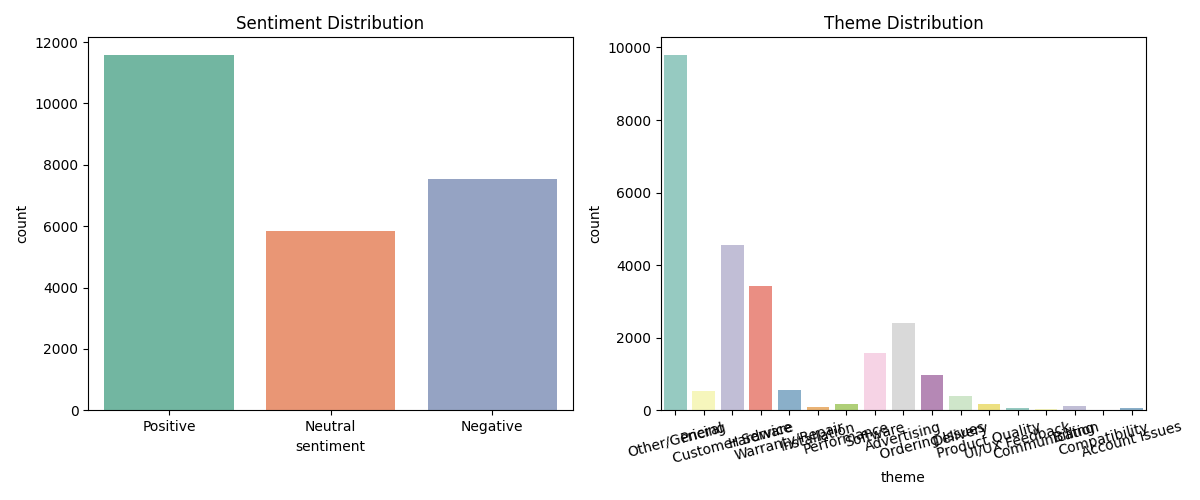
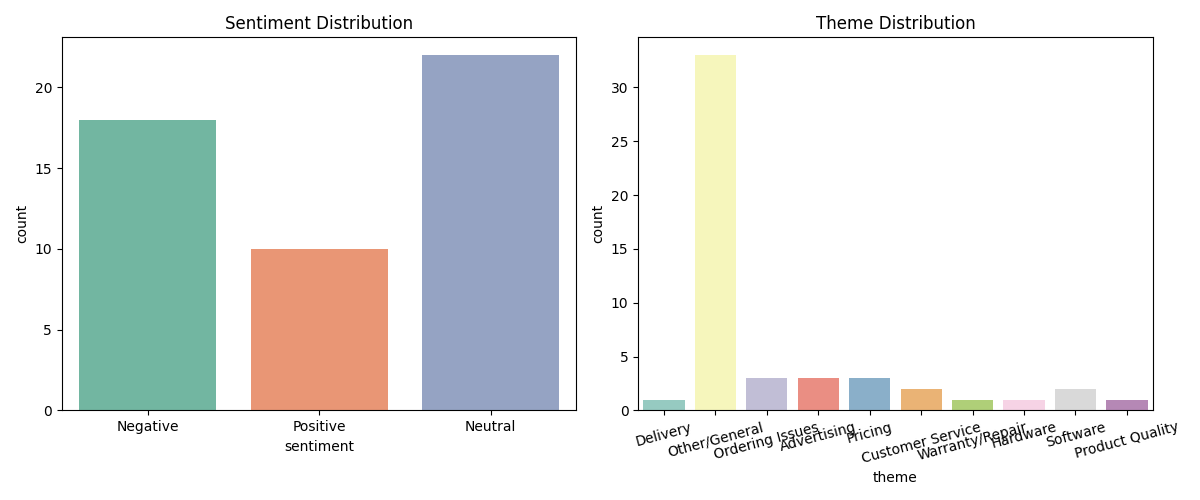
working reddit live stream data

diff --git a/streamlit_app.py b/streamlit_app.py
@@ -4,6 +4,13 @@ import plotly.express as px
 from scripts.map_insights import generate_action_items
 from scripts.generate_ai_suggestions import generate_bart_suggestions
 from jiraAutomation.create_jira_ticket import create_jira_ticket
+from scripts.reddit_stream import stream_reddit_comments
+from scripts.preprocess_data import preprocess_dataset
+from scripts.sentiment_analysis import run_sentiment_analysis
+from scripts.theme_classification import classify_themes
+import os
+
+st.set_page_config(layout="wide", page_title="AI-Powered Customer Insight Dashboard")
 
 # UI Styling
 st.markdown("""
@@ -19,25 +26,48 @@ st.markdown("""
     </style>
 """, unsafe_allow_html=True)
 
-st.set_page_config(layout="wide", page_title="AI-Powered Customer Insight Dashboard")
-
-# Centered Title
+# Title
 st.markdown("<div style='text-align: center; font-size: 32px; font-weight: bold;'>📊 Dell Tweets Insight Dashboard</div>", unsafe_allow_html=True)
 
-# Load processed data
+# File paths
 DATA_PATH = "data/processed/dell_themes.csv"
+LIVE_PATH = "data/processed/live_themes.csv"
+
+# Sidebar source selector
+st.sidebar.title("📂 Data Source")
+data_source = st.sidebar.radio("Select Data Source:", ["Kaggle", "Live"])
 
 @st.cache_data
-def load_data():
+def load_kaggle_data():
     return pd.read_csv(DATA_PATH)
 
-df = load_data()
+@st.cache_data
+def load_live_data():
+    st.info("🔍 Fetching Live Reddit data...")
+    live_df = stream_reddit_comments(subreddit_name="technology", limit=100)
+    if not live_df.empty:
+        preprocess_dataset("data/raw/reddit_stream.csv", "data/processed/live_cleaned.csv")
+        run_sentiment_analysis("data/processed/live_cleaned.csv", "data/processed/live_sentiment.csv")
+        df = pd.read_csv("data/processed/live_sentiment.csv")
+        df = classify_themes(df)
+        df.to_csv(LIVE_PATH, index=False)
+        st.success(f"✅ Live data processed ({len(df)} records)")
+        return df
+    else:
+        st.error("⚠ No live data fetched.")
+        return pd.DataFrame()
 
-# Top right checkbox
+# Load data based on source
+df = load_kaggle_data() if data_source == "Kaggle" else load_live_data()
+
+if df.empty:
+    st.warning("⚠ No data available. Please check the source.")
+    st.stop()
+
+# Checkbox to show raw data
 col1, col2 = st.columns([10, 1])
 with col2:
     show_data = st.checkbox("Show raw data")
-
 if show_data:
     st.dataframe(df.head())
 
@@ -91,7 +121,6 @@ with col_f1:
 with col_f2:
     theme_filter = st.selectbox("Filter tweets by theme", options=["All"] + sorted(df['theme'].unique()))
 
-# Apply filters
 filtered = df.copy()
 if sent_filter != "All":
     filtered = filtered[filtered['sentiment'] == sent_filter]
@@ -105,90 +134,53 @@ with st.expander("📂 View Filtered Tweets"):
 # Suggested Action Items
 st.subheader("🛠 Suggested Action Items Based on Feedback")
 actions_by_sentiment = generate_action_items(df)
-
 for sentiment, actions in actions_by_sentiment.items():
     st.markdown(f"### {sentiment} Feedback")
-
     if actions:
-        cleaned_actions = [
-            (action.replace("Promote as testimonial for ", "")
-                   .replace("Note neutral feedback for ", "")
-                   .replace("Route negative feedback to ", "")
-                   .replace("Escalate to support team for ", ""), count)
-            for action, count in actions
-        ]
+        cleaned_actions = [(a.replace("Promote as testimonial for ", "")
+                             .replace("Note neutral feedback for ", "")
+                             .replace("Route negative feedback to ", "")
+                             .replace("Escalate to support team for ", ""), c)
+                            for a, c in actions]
         action_df = pd.DataFrame(cleaned_actions, columns=["Action Area", "Mentions"])
         col1, col2 = st.columns([1, 1])
         with col1:
             st.dataframe(action_df.sort_values(by="Mentions", ascending=False))
         with col2:
-            fig = px.pie(
-                action_df,
-                names="Action Area",
-                values="Mentions",
-                hole=0.4,
-                title=f"{sentiment} Feedback Distribution",
-                color_discrete_sequence=px.colors.qualitative.Pastel
-            )
+            fig = px.pie(action_df, names="Action Area", values="Mentions", hole=0.4,
+                         title=f"{sentiment} Feedback Distribution",
+                         color_discrete_sequence=px.colors.qualitative.Pastel)
             st.plotly_chart(fig, use_container_width=True)
 
-# 🤖 AI-Powered Suggestions
+# AI Suggestions
 st.subheader("🤖 AI-Generated Action Suggestions (Negative)")
-
 with st.spinner("Generating suggestions using BART model..."):
-    from transformers import pipeline
-    from scripts.generate_ai_suggestions import generate_bart_suggestions
-
     ai_suggestions = generate_bart_suggestions(df)
-
 if ai_suggestions:
     ai_df = pd.DataFrame(ai_suggestions, columns=["Theme", "Mentions", "Suggested Action"])
     st.dataframe(ai_df, use_container_width=True)
-else:
-    st.warning("No suggestions generated.")
 
 # Jira Ticket Creation
-# 🚨 Suggested Jira Tickets Based on AI Suggestions
-st.subheader("🚨 Suggested Jira Tickets Based on AI Suggestions (Top 3 Negative Themes)")
 
-from scripts.generate_ai_suggestions import generate_bart_suggestions
+st.subheader("🚨 Suggested Jira Tickets (Top Negative Themes)")
 
-ai_suggestions = generate_bart_suggestions(df)
+if st.button("Create Test Jira Ticket"):
+    issue_key = create_jira_ticket("Python Test from Streamlit", "Testing from Streamlit app")
+    if issue_key:
+        st.success(f"✅ Created Jira ticket: {issue_key}")
+    else:
+        st.error("❌ Failed to create Jira ticket")
 
-if ai_suggestions:
-    for i, (theme, count, suggestion) in enumerate(ai_suggestions):
-        st.markdown(f"**{i+1}. {theme}** — {count} mentions")
-        if st.button(f"Create Jira Ticket for {theme}", key=f"ai_ticket_{i}"):
-            summary = f"Negative Feedback - {theme[:40]}"
-            description = suggestion
-            issue_key = create_jira_ticket(summary, description)
-            if issue_key:
-                st.success(f"✅ Jira ticket created: {issue_key}")
-            else:
-                st.error("❌ Failed to create Jira ticket.")
-else:
-    st.info("No AI-generated suggestions available to create Jira tickets.")
-
-# 📥 Export Action Items
+# Export Actions
 st.subheader("📥 Export Action Items")
-
 col_exp1, col_exp2 = st.columns([1, 1])
-
 with col_exp1:
-    export_sentiment = st.selectbox(
-        "Choose sentiment to export",
-        ["Negative", "Positive", "Neutral"],
-        key="export_sentiment"
-    )
-
+    export_sentiment = st.selectbox("Choose sentiment to export", ["Negative", "Positive", "Neutral"])
 with col_exp2:
     export_data = actions_by_sentiment.get(export_sentiment, [])
     if export_data:
         df_export = pd.DataFrame(export_data, columns=["Action", "Mentions"])
-        st.download_button(
-            label="📥 Download CSV",
-            data=df_export.to_csv(index=False),
-            file_name=f"{export_sentiment.lower()}_actions.csv",
-            mime='text/csv',
-            key="download_btn"
-        )
+        st.download_button(label="📥 Download CSV",
+                           data=df_export.to_csv(index=False),
+                           file_name=f"{export_sentiment.lower()}_actions.csv",
+                           mime='text/csv')

diff --git a/main.py b/main.py
@@ -1,3 +1,9 @@
+# main.py
+
+import os
+import pandas as pd
+from dotenv import load_dotenv
+
 from scripts.load_data import load_data
 from scripts.preprocess_data import preprocess_dataset
 from scripts.sentiment_analysis import run_sentiment_analysis
@@ -5,34 +11,50 @@ from scripts.theme_classification import classify_themes
 from scripts.map_insights import map_insights, generate_action_items
 from scripts.visualize_summary import plot_sentiment_theme_distribution
 from scripts.generate_ai_suggestions import generate_bart_suggestions
-import pandas as pd
+from scripts.reddit_stream import stream_reddit_comments
 
+# Load environment variables
+load_dotenv()
+
+LIVE_MODE = os.getenv("LIVE_MODE", "False").lower() == "true"
 
 def main():
+    if LIVE_MODE:
+        print("🌐 LIVE MODE ENABLED: Streaming Reddit data...")
+        stream_reddit_comments(subreddit_name="technology", limit=50)
+        raw_path = "data/raw/reddit_stream.csv"
+    else:
+        print("📂 OFFLINE MODE: Using Kaggle dataset...")
+        raw_path = "data/raw/dell_cleaned.csv"
+
+    # Step 1: Load Data
     print("🔹 Step 1: Loading raw data...")
-    raw_path = "data/raw/dell_tweets.csv"
     df_raw = load_data(raw_path)
 
-    print("🔹 Step 2: Preprocessing tweets...")
-    cleaned_path = "data/processed/dell_cleaned.csv"
+    # Step 2: Preprocess
+    print("🔹 Step 2: Preprocessing data...")
+    cleaned_path = "data/processed/cleaned_data.csv"
     preprocess_dataset(raw_path, cleaned_path)
 
+    # Step 3: Sentiment Analysis
     print("🔹 Step 3: Running sentiment analysis...")
-    sentiment_path = "data/processed/dell_sentiment.csv"
+    sentiment_path = "data/processed/sentiment_data.csv"
     run_sentiment_analysis(cleaned_path, sentiment_path)
 
+    # Step 4: Theme Classification
     print("🔹 Step 4: Classifying themes...")
     df = pd.read_csv(sentiment_path)
     df = classify_themes(df)
-    theme_path = "data/processed/dell_themes.csv"
+    theme_path = "data/processed/final_data.csv"
     df.to_csv(theme_path, index=False)
 
+    # Step 5: Insights Summary
     print("🔹 Step 5: Mapping summary insights...")
     insights = map_insights(df)
-    print("\n📊 Insight Summary:")
     for line in insights:
         print("•", line)
 
+    # Step 6: Action Items
     print("\n🔹 Step 6: Generating action items...")
     actions = generate_action_items(df)
     for sentiment, items in actions.items():
@@ -40,17 +62,17 @@ def main():
         for action, count in items:
             print(f"• {action} — {count} mentions")
 
+    # Step 7: Visualizations
     print("\n🔹 Step 7: Generating visualizations...")
     plot_sentiment_theme_distribution(theme_path)
 
-    # Optional: AI summarization preview
-    print("\n🔹 Step 8: AI-generated improvement ideas (from comments):")
+    # Step 8: AI Suggestions
+    print("\n🔹 Step 8: AI-generated improvement ideas...")
     ai_suggestions = generate_bart_suggestions(df)
     for theme, count, idea in ai_suggestions:
         print(f"\n📌 {theme} ({count} mentions):\n👉 {idea}")
 
     print("\n✅ Pipeline completed successfully.")
-
 
 if __name__ == "__main__":
     main()

diff --git a/scripts/reddit_stream.py b/scripts/reddit_stream.py
@@ -1,0 +1,45 @@
+import praw
+import os
+import pandas as pd
+from datetime import datetime
+from dotenv import load_dotenv
+
+load_dotenv()
+
+# Reddit API setup
+reddit = praw.Reddit(
+    client_id=os.getenv("REDDIT_CLIENT_ID"),
+    client_secret=os.getenv("REDDIT_CLIENT_SECRET"),
+    username=os.getenv("REDDIT_USERNAME"),
+    password=os.getenv("REDDIT_PASSWORD"),
+    user_agent=os.getenv("REDDIT_USER_AGENT")
+)
+
+OUTPUT_PATH = "data/raw/reddit_stream.csv"
+
+def stream_reddit_comments(subreddit_name="technology", limit=10):
+    print(f"🔍 Streaming from subreddit: {subreddit_name}")
+    subreddit = reddit.subreddit(subreddit_name)
+
+    data = []
+    for post in subreddit.new(limit=limit):
+        created_dt = datetime.utcfromtimestamp(post.created_utc).strftime('%Y-%m-%d %H:%M:%S')
+        
+        text_content = (post.title or "") + " " + (post.selftext or "")
+        
+        data.append({
+            "Datetime": created_dt,
+            "Tweet Id": post.id,
+            "Text": text_content.strip(),
+            "Username": str(post.author)
+        })
+
+    df = pd.DataFrame(data)
+    
+    # Save in Kaggle-compatible format
+    df.to_csv(OUTPUT_PATH, index=False)
+    print(f"✅ Saved {len(df)} Reddit posts to {OUTPUT_PATH}")
+    return df
+
+if __name__ == "__main__":
+    stream_reddit_comments()
